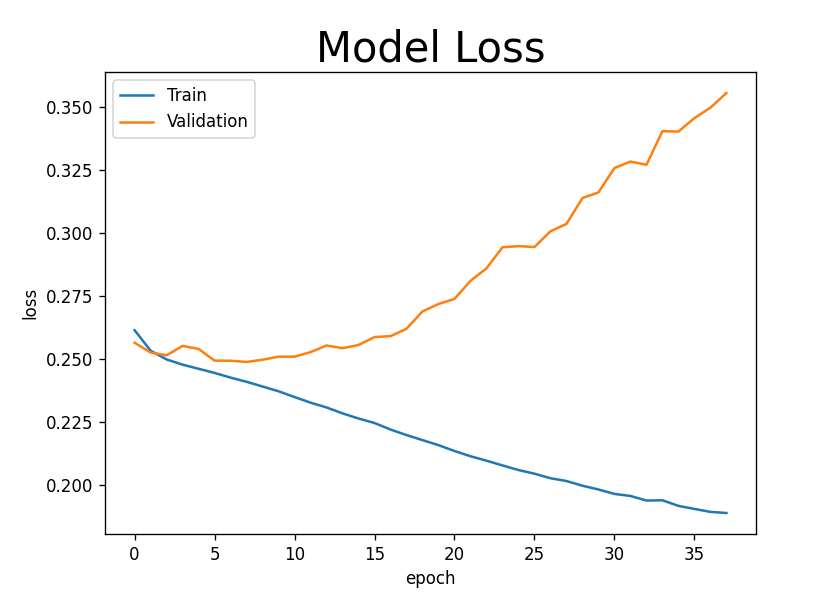
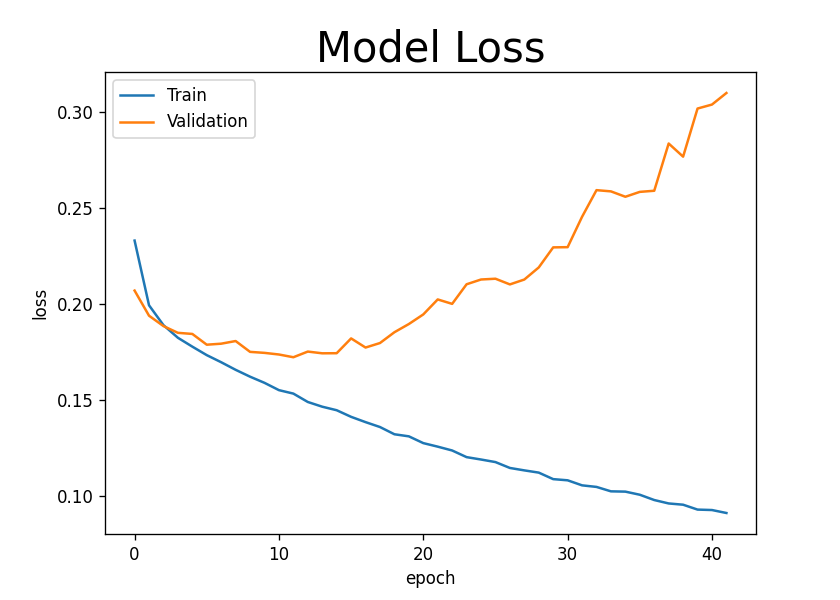
new updates

diff --git a/PUPPI_KerasModel.py b/PUPPI_KerasModel.py
@@ -1,0 +1,117 @@
+import h5py
+import numpy as np
+import matplotlib.pyplot as plt
+import tensorflow
+from keras.models import Model
+from tensorflow.keras.layers import Conv1D, Dense, Flatten, Input, Dropout
+
+from DataF import N_FEAT, N_PART_PER_JET
+#N_FEAT = 14
+#N_PART_PER_JET = 10
+
+# Load in the datasets for training and compiling the sample weights
+with h5py.File("Datasets/trainingDataStPUPPI_1.h5", "r") as hf:
+    dataset = hf["Training Data"][:]
+with h5py.File("Datasets/trainingDataqcdPUPPI.h5", "r") as hf:
+    datasetQCD = hf["qcdPUPPI/Training Data"][:]
+with h5py.File("Datasets/sampleDataStPUPPI.h5", "r") as hf:
+    sampleData = hf["StPUPPI/Sample Data"][:]
+
+
+#with h5py.File("testingDataStop.h5", "r") as hf:
+#    dataset = hf["Testing Data"][:]
+#with h5py.File("testingDataQCD.h5", "r") as hf:
+#    datasetQCD = hf["Testing Data"][:]
+#with h5py.File("sampleDataStop.h5", "r") as hf:
+#    sampleData = hf["Sample Data"][:]
+
+dataset = np.concatenate((dataset, datasetQCD))#Put datasets on top of one another
+#dataset = np.load("AugTrainingDataPt30.npy")
+np.random.shuffle(dataset) #randomize QCD and Stop samples
+
+# Separate datasets into inputs and outputs, expand the dimensions of the inputs to be used with Conv1D layers
+X = dataset[:, 0 : len(dataset[0]) - 1]
+y = dataset[:, len(dataset[0]) - 1]
+X = X.reshape((X.shape[0], N_PART_PER_JET, N_FEAT))
+
+# Establish the sample weights
+thebins = np.linspace(0, 200, 100)
+bkgPts = []
+sigPts = []
+for i in range(len(X)):
+    if y[i] == 1:
+        sigPts.append(sampleData[i][0])
+    if y[i] == 0:
+        bkgPts.append(sampleData[i][0])
+bkg_counts, binsbkg = np.histogram(bkgPts, bins=thebins)
+sig_counts, binssig = np.histogram(sigPts, bins=thebins)
+a = []
+for i in range(len(bkg_counts)):
+    tempSig = float(sig_counts[i])
+    tempBkg = float(bkg_counts[i])
+    if tempBkg != 0:
+        a.append(tempSig / tempBkg)
+    if tempBkg == 0:
+        a.append(0)
+# Normalize the sample weights above a certain pT
+for i in range(42, len(a)):
+    a[i] = 0.7
+
+# Compile the network
+x = inputs = Input(shape=(N_PART_PER_JET, N_FEAT))
+x = Conv1D(
+    filters=50,
+    kernel_size=1,
+    strides=1,
+    activation="relu",
+)(x)
+#x = Dropout(0.3)(x)
+x = Conv1D(filters=50, kernel_size=1, activation="relu")(x)
+x = Flatten()(x)
+#x = Dropout(0.5)(x)
+x = Dense(50, activation="relu")(x)
+#x = Dropout(0.3)(x)
+x = Dense(10, activation="relu")(x)
+outputs = Dense(1, activation="sigmoid")(x)
+
+model = Model(inputs=inputs, outputs=outputs)
+model.compile(loss="binary_crossentropy", optimizer="adam", metrics=["binary_accuracy"])
+
+# Add in the sample weights, 1-to-1 correspondence with training data
+# Sample weight of all signal events being equal to 1
+# Sample weight of all background events being equal to the sig/bkg ratio at that jet's pT
+
+#weights = []
+#for i in range(len(sampleData)):
+#    if y[i] == 1:
+#        weights.append(1)
+#    if y[i] == 0:
+#        jetPt = sampleData[i][0]
+#        tempPt = int(jetPt / 2)
+#        if tempPt > 98:
+#            tempPt = 98
+#        weights.append(a[tempPt])
+
+# Train the network
+callback = tensorflow.keras.callbacks.EarlyStopping(monitor="val_loss", verbose=1, patience=30)
+history = model.fit(
+    X,
+    y,
+    epochs=100,
+    batch_size=50,
+    verbose=2,
+    #sample_weight=np.asarray(weights),
+    validation_split=0.20,
+    callbacks=[callback],
+)
+
+plt.figure(figsize=(7,5), dpi=120)
+plt.plot(history.history['loss'], label = 'Train')
+plt.plot(history.history['val_loss'], label = 'Validation')
+plt.title('Model Loss', fontsize=25)
+plt.ylabel('loss')
+plt.xlabel('epoch')
+plt.legend(loc='best')
+plt.savefig("PUPPImodelLoss.png")
+
+model.save("PUPPIL1JetTagModel.h5")

diff --git a/ROC.py b/ROC.py
@@ -13,9 +13,9 @@ import tensorflow
 # Establish the input and output data for each dataset, expanding dimensions for compatability with Conv1D layer input
 
 # First Dataset
-with h5py.File("testingDataStop_1_30.h5", "r") as hf:
+with h5py.File("/afs/cern.ch/user/r/russelld/CMSSW_12_4_1/src/testingDataStop_1_30.h5", "r") as hf:
     dataset = hf["Testing Data"][:]
-with h5py.File("testingDataQCD_30.h5", "r") as hf:
+with h5py.File("/afs/cern.ch/user/r/russelld/CMSSW_12_4_1/src/testingDataQCD_30.h5", "r") as hf:
     datasetQCD = hf["Testing Data"][:]
 
 #with h5py.File("trainingDataStop.h5", "r") as hf:
@@ -35,13 +35,21 @@ b = dataset[:, len(dataset[0]) - 1]
 A = A.reshape((A.shape[0], N_PART_PER_JET, N_FEAT))
 
 # Second Dataset
+
+with h5py.File("Datasets/testingDataStPUPPI_1.h5", "r") as hf:
+   PUPPIdataset = hf["Testing Data"][:]
+with h5py.File("Datasets/testingDataqcdPUPPI.h5", "r") as hf:
+    PUPPIdatasetQCD = hf["qcdPUPPI/Testing Data"][:]
+
 #with h5py.File("/data/t3home000/aidandc/testingDataHHThreeV.h5", "r") as hf:
 #    dataset1 = hf["Testing Data"][:]
+PUPPIdataset = np.concatenate((PUPPIdataset,PUPPIdatasetQCD))
+np.random.shuffle(PUPPIdataset)
 
-#A1 = dataset1[:, 0 : len(dataset1[0]) - 1]
-#b1 = dataset1[:, len(dataset1[0]) - 1]
-#A1 = expand_dims(A1, axis=3)
+A1 = PUPPIdataset[:, 0 : len(PUPPIdataset[0]) - 1]
+b1 = PUPPIdataset[:, len(PUPPIdataset[0]) - 1]
 
+A1 = A1.reshape((A1.shape[0], N_PART_PER_JET, N_FEAT))
 # Third Dataset
 #with h5py.File("/data/t3home000/aidandc/testingDataHHFiveV.h5", "r") as hf:
 #    dataset2 = hf["Testing Data"][:]
@@ -61,19 +69,19 @@ plt.plot([0, 1], [0, 1], "k--")
 
 # Load in respective model for the datasets
 model1 = load_model("L1JetTagModel.h5")
-#model2 = load_model("modelTwo.h5")
+model2 = load_model("PUPPIL1JetTagModel.h5")
 #model3 = load_model("modelThree.h5")
 
 # Creating ROC curves based on model predictions for each dataset
 Ab_pred_keras = model1.predict(A).ravel()
 fpr_Ab, tpr_Ab, thresholds_Ab = roc_curve(b, Ab_pred_keras)
 auc_Ab = auc(fpr_Ab, tpr_Ab)
-plt.plot(fpr_Ab, tpr_Ab, label = "AUC={:.3f}".format(auc_Ab))#, label="dZ+dXY 1 Vertex (area={:.3f})".format(auc_Ab))
+plt.plot(fpr_Ab, tpr_Ab, label = "Pf, AUC={:.3f}".format(auc_Ab))#, label="dZ+dXY 1 Vertex (area={:.3f})".format(auc_Ab))
 
-#Bc_pred_keras = model2.predict(A1).ravel()
-#fpr_Bc, tpr_Bc, thresholds_Bc = roc_curve(b1, Bc_pred_keras)
-#auc_Bc = auc(fpr_Bc, tpr_Bc)
-#plt.plot(fpr_Bc, tpr_Bc, label="dZ+dXY 3 Vertex (area={:.3f})".format(auc_Bc))
+Bc_pred_keras = model2.predict(A1).ravel()
+fpr_Bc, tpr_Bc, thresholds_Bc = roc_curve(b1, Bc_pred_keras)
+auc_Bc = auc(fpr_Bc, tpr_Bc)
+plt.plot(fpr_Bc, tpr_Bc, label="PUPPI, AUC={:.3f}".format(auc_Bc))
 
 #Cd_pred_keras = model3.predict(A2).ravel()
 #fpr_Cd, tpr_Cd, thresholds_Cd = roc_curve(b2, Cd_pred_keras)
@@ -85,4 +93,4 @@ plt.xlabel("False positive rate")
 plt.ylabel("True positive rate")
 plt.title("L1 LLP Tag Model ROC Curve", fontsize=16)
 plt.legend(loc="best")
-plt.savefig("ROCCurves.png")
+plt.savefig("ROCCurvesPfvsPUP.png")
